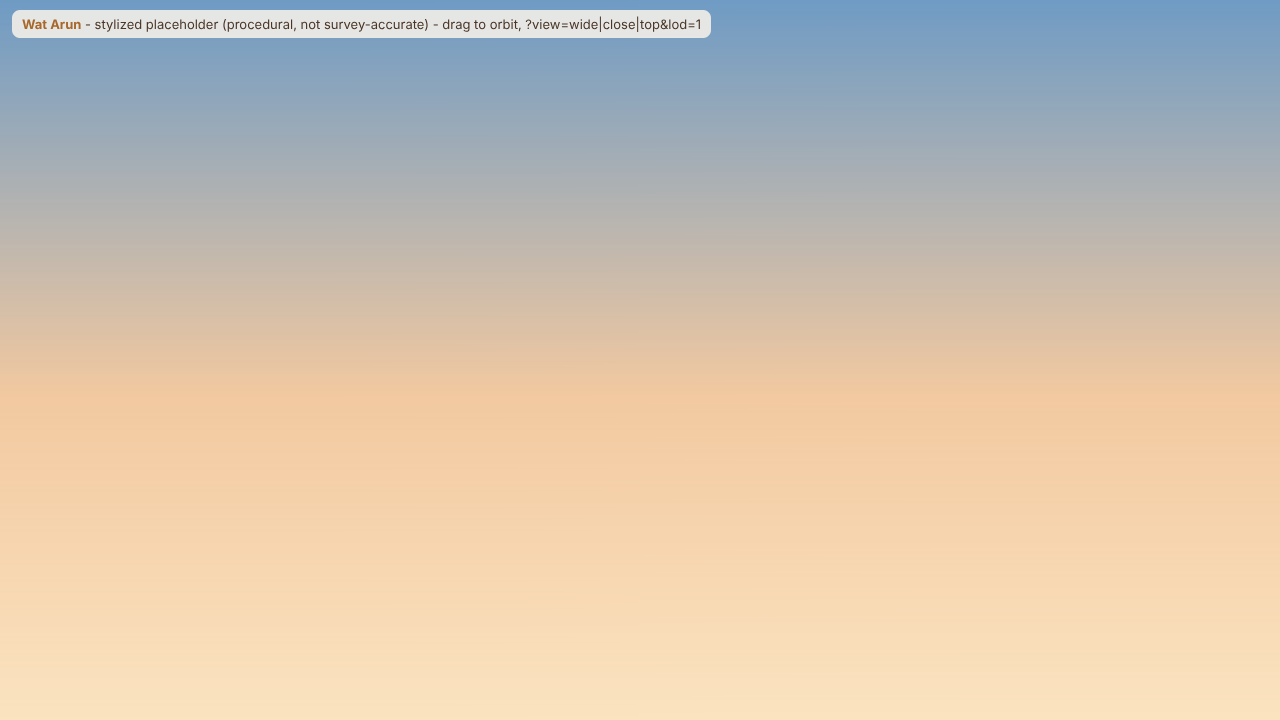
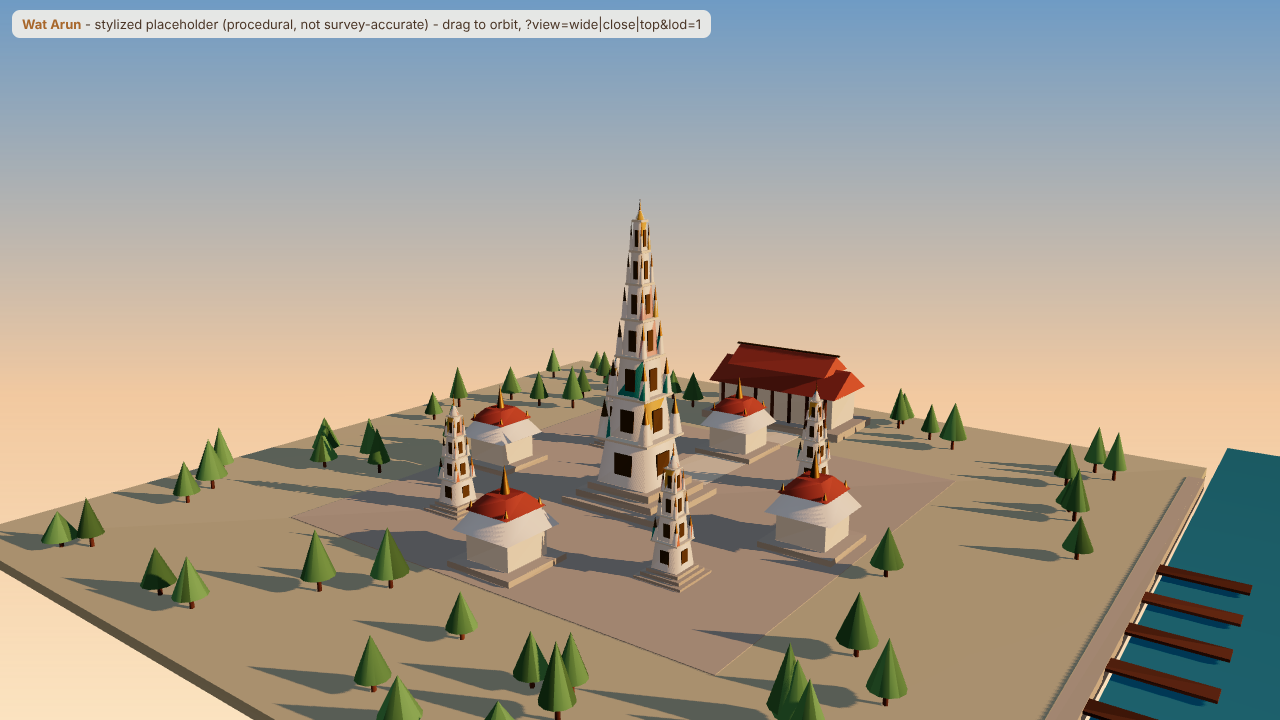
wip: checkpoint Agents 08/05 in-progress edits
Claude-Session: https://claude.ai/code/session_01QZsPC7tgqbarzryUkcWYuU

diff --git a/docs/3d/preview/index.html b/docs/3d/preview/index.html
@@ -28,8 +28,8 @@ const ctl = new OrbitControls(cam, r.domElement); ctl.enableDamping = true; ctl.
 const V = { wide: [[70, 45, 95], [0, 18, 0]], close: [[28, 30, 34], [0, 28, 0]], top: [[0.01, 150, 0.01], [0, 0, 0]] }[view] || [[70, 45, 95], [0, 18, 0]];
 cam.position.set(...V[0]); ctl.target.set(...V[1]); ctl.update();
 new GLTFLoader().load('../../../assets/3d/wat-arun/wat-arun-stylized.glb', g => {
-  g.scene.traverse(o => { if (o.isMesh) { const isL0 = o.name.endsWith('_LOD0'), isL1 = o.name.endsWith('_LOD1'); o.visible = lod ? isL1 : isL0; o.castShadow = true; o.receiveShadow = true; } });
-  scene.add(g.scene); window.__ready = true;
+  g.scene.traverse(o => { if (o.isMesh) { let n = '', a = o; while (a && !n.includes('_LOD')) { n = a.name || ''; a = a.parent; } const isL0 = n.includes('_LOD0'), isL1 = n.includes('_LOD1'); o.visible = lod ? isL1 : isL0; o.castShadow = true; o.receiveShadow = true; } });
+  scene.add(g.scene); window.__scene = g.scene; window.__ready = true;
 }, undefined, e => { document.title = 'ERR ' + e; window.__ready = 'err'; });
 addEventListener('resize', () => { cam.aspect = innerWidth / innerHeight; cam.updateProjectionMatrix(); r.setSize(innerWidth, innerHeight); });
 r.setAnimationLoop(() => { ctl.update(); r.render(scene, cam); });
